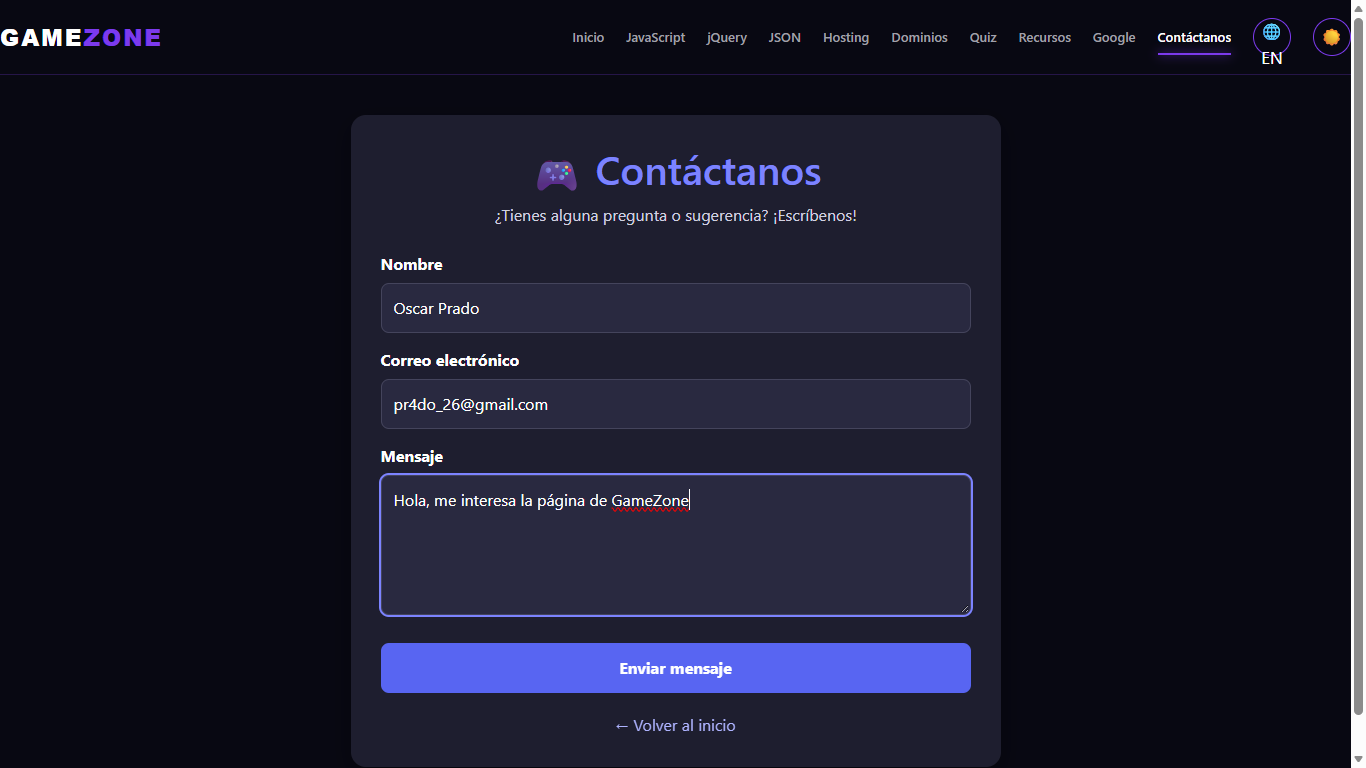
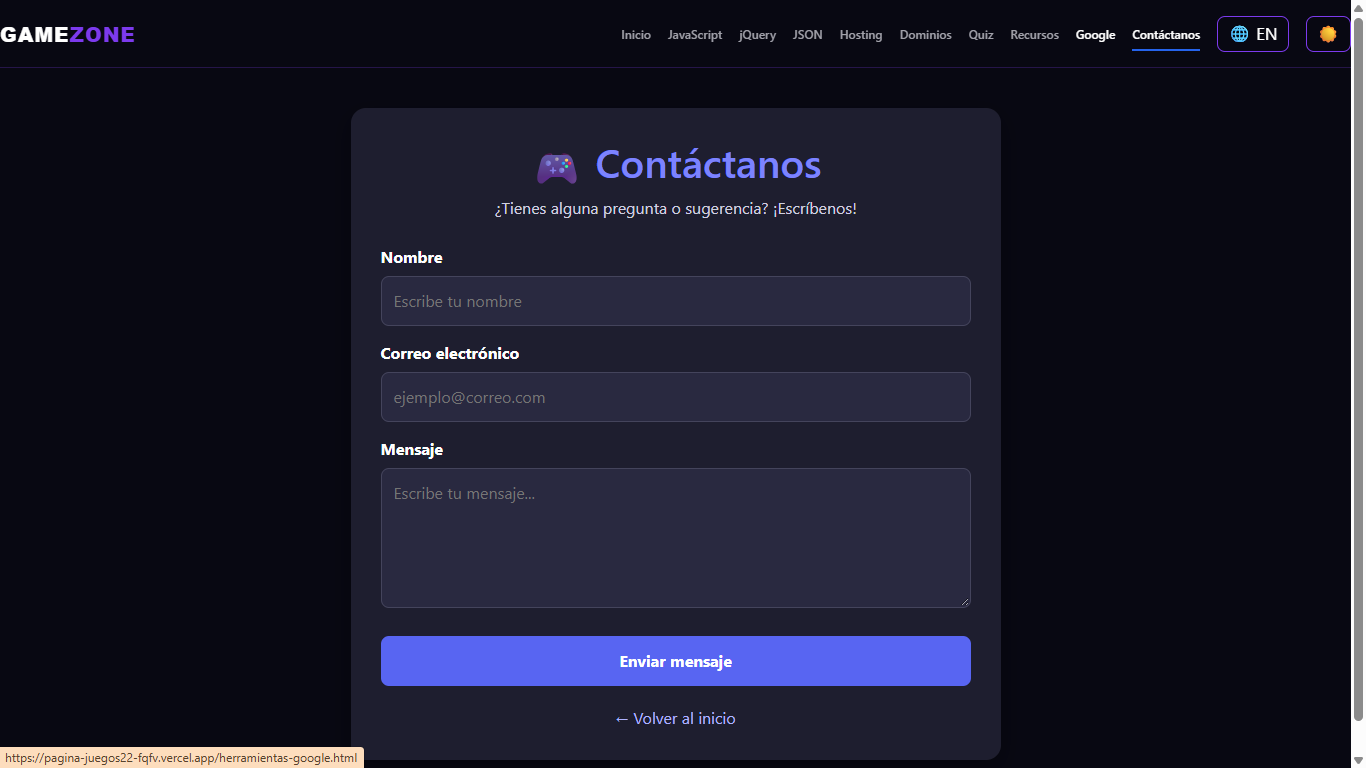
Actualizado2

diff --git a/readme.md b/readme.md
@@ -3,7 +3,7 @@
 Estudiante: (Oscar Leonel Menjivar Prado).
 Fecha: (Viernes 16/10/2026).
 Enlace al Sitio Web (Vercel): https://pagina-juegos22-bvbh.vercel.app/
-Repositorio GitHub: https://github.com/prado2029-png/Pagina-juegos22
+Repositorio GitHub: https://github.com/ prado2029-png/Pagina-juegos22
 
 ---
 
@@ -100,8 +100,6 @@ Funcionamiento técnico:
 3. Los datos se envían al servicio configurado para la integración con Discord.
 4. Cuando el envío se realiza correctamente, aparece una notificación en el canal de Discord correspondiente.
 
-(Esta explicación debe coincidir con el funcionamiento real de tu formulario. Si tu página utiliza otro procedimiento, modifica los pasos para describirlo correctamente).
-
 ---
 
 4. Anexos y Evidencias Gráficas
@@ -118,7 +116,7 @@ Funcionamiento técnico:
 
 🟢 Anexo 2: Despliegue Exitoso en Vercel
 ### Vercel
-![Despliegue en vercel](assets/despliegue_vercel.png)
+![Despliegue en vercel](assets/despliegue%20en%20vercel.png)
 
 
 
@@ -127,11 +125,10 @@ Funcionamiento técnico:
 ### Vercel
 ![Vista móvil](assets/vista_cel.jpeg)
 
-
 🟢 Anexo 4: Cuestionario Interactivo en Funcionamiento
 
 ### Cuestionario
-![Cuestionario](assets/cuestionario.png)
+![Cuestionario](assets/quiz.png)
 
 
 🟢 Anexo 5: Estructura del Repositorio en GitHub
